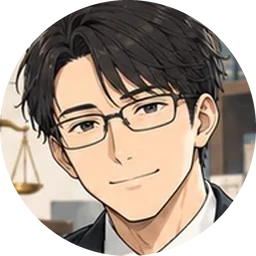
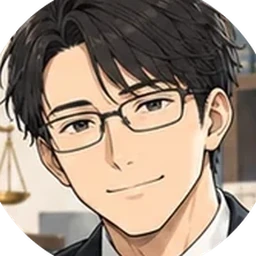
Add files via upload

diff --git a/index.html b/index.html
@@ -81,13 +81,26 @@ small{font-size:13px}
 .chapter .msg .av.portrait{background:transparent;overflow:hidden;border:1px solid #47515e}
 .chapter .msg .av.portrait img{width:100%;height:100%;object-fit:cover}
 .chapter .media.enhanced figcaption{display:none}
+
+/* v7: unified SNS circle masks; remove extra stroke that looked like misaligned embedded rings */
+.resident img,.right-face img,.chapter .av.portrait,.tweet>.avatar,.person-card img,.modal-card>img{
+  border-radius:50%;object-fit:cover;object-position:center;overflow:hidden;
+}
+.resident img,.right-face img,.chapter .av.portrait,.tweet>.avatar{border:0;}
+.chapter .av.portrait img{width:100%;height:100%;display:block;object-fit:cover;object-position:center;border-radius:50%;}
+/* Japanese sento mural: keep Fuji's summit in-frame in wide story thumbnails */
+.sento-art{object-position:center 14%!important;}
+/* the chapter splash and embed images adapt without side gutters */
+.chapter .media.enhanced{background:#101621;border-radius:12px;overflow:hidden;}
+.chapter .media.enhanced img{width:100%;height:auto;max-height:none;display:block;object-fit:cover;}
+.tweet-title{line-height:1.55;}
 </style></head><body><div class="progress" id="progress"></div><div class="layout">
 <aside class="left" aria-label="サイト内ナビゲーション"><a href="#home" class="logo" aria-label="凍結都市ホーム">凍</a><nav class="left-menu">
-<a class="nav-link" data-route="home" href="#home"><svg viewBox="0 0 24 24"><path d="m3 10 9-7 9 7v10h-6v-7H9v7H3z"/></svg><span>ホーム</span></a><a class="nav-link" data-route="episodes" href="#episodes"><svg viewBox="0 0 24 24"><path d="M8 5h13M8 12h13M8 19h13M3 5h1M3 12h1M3 19h1"/></svg><span>話一覧</span></a><a class="nav-link" data-route="characters" href="#characters"><svg viewBox="0 0 24 24"><circle cx="9" cy="8" r="3"/><path d="M2 21v-2a7 7 0 0 1 14 0v2M17 5a3 3 0 0 1 0 6M18 14a6 6 0 0 1 4 6v1"/></svg><span>登場人物</span></a><a class="nav-link" data-route="gallery" href="#gallery"><svg viewBox="0 0 24 24"><rect x="3" y="3" width="18" height="18" rx="3"/><circle cx="8.5" cy="8.5" r="1.5"/><path d="m3 17 5-5 4 4 3-3 6 5"/></svg><span>投稿画像</span></a><a class="nav-link" data-route="bookmarks" href="#bookmarks"><svg viewBox="0 0 24 24"><path d="M5 3h14v18l-7-5-7 5z"/></svg><span>ブックマーク</span></a><a class="nav-link" data-route="settings" href="#settings"><svg viewBox="0 0 24 24"><path d="M3 5a5 5 0 0 1 5-1h4v16H8a5 5 0 0 0-5 1zM21 5a5 5 0 0 0-5-1h-4v16h4a5 5 0 0 1 5 1z"/></svg><span>設定資料</span></a></nav><a href="#prologue" class="new-reader">プロローグを読む</a><a href="#home" class="left-profile"><img src="icon.svg" alt=""><span class="profiletext"><strong>凍結都市｜創作 <span class="fiction-mark" title="架空の作品">❄</span></strong><small>@toketsu_toshi</small></span></a></aside>
+<a class="nav-link" data-route="home" href="#home"><svg viewBox="0 0 24 24"><path d="m3 10 9-7 9 7v10h-6v-7H9v7H3z"/></svg><span>ホーム</span></a><a class="nav-link" data-route="episodes" href="#episodes"><svg viewBox="0 0 24 24"><path d="M8 5h13M8 12h13M8 19h13M3 5h1M3 12h1M3 19h1"/></svg><span>話一覧</span></a><a class="nav-link" data-route="characters" href="#characters"><svg viewBox="0 0 24 24"><circle cx="9" cy="8" r="3"/><path d="M2 21v-2a7 7 0 0 1 14 0v2M17 5a3 3 0 0 1 0 6M18 14a6 6 0 0 1 4 6v1"/></svg><span>登場人物</span></a><a class="nav-link" data-route="gallery" href="#gallery"><svg viewBox="0 0 24 24"><rect x="3" y="3" width="18" height="18" rx="3"/><circle cx="8.5" cy="8.5" r="1.5"/><path d="m3 17 5-5 4 4 3-3 6 5"/></svg><span>投稿画像</span></a><a class="nav-link" data-route="bookmarks" href="#bookmarks"><svg viewBox="0 0 24 24"><path d="M5 3h14v18l-7-5-7 5z"/></svg><span>ブックマーク</span></a><a class="nav-link" data-route="settings" href="#settings"><svg viewBox="0 0 24 24"><path d="M3 5a5 5 0 0 1 5-1h4v16H8a5 5 0 0 0-5 1zM21 5a5 5 0 0 0-5-1h-4v16h4a5 5 0 0 1 5 1z"/></svg><span>設定資料</span></a></nav><a href="#prologue" class="new-reader">プロローグを読む</a><a href="#home" class="left-profile"><img src="icon.svg?v=7" alt=""><span class="profiletext"><strong>凍結都市｜創作 <span class="fiction-mark" title="架空の作品">❄</span></strong><small>@toketsu_toshi</small></span></a></aside>
 <main class="main" id="main" aria-label="凍結都市 本編"><header class="top"><button type="button" class="back" id="backButton" hidden aria-label="前の画面へ"><svg viewBox="0 0 24 24"><path d="m14 5-7 7 7 7"/></svg></button><div class="top-copy"><h1 id="topTitle">凍結都市</h1><small id="topSubtitle">SFパロディ小説・全10編</small></div><span class="space"></span><button class="type-toggle" id="fontButton" type="button" title="文字サイズを変更">あ±</button><button type="button" class="mobile-search" id="mobileSearch" aria-label="サイト内を検索"><svg viewBox="0 0 24 24"><circle cx="10.5" cy="10.5" r="6.5"/><path d="m16 16 5 5"/></svg></button></header>
 <div id="tabNav" class="top-tabs"><button type="button" data-tab="home" class="active">おすすめ</button><button type="button" data-tab="episodes">連載一覧</button><button type="button" data-tab="characters">登場人物</button></div>
-<section class="view" id="homeView"><div class="banner"><img src="hero.webp" alt="氷のような青の近未来都市とSNSのホログラム"><div class="banner-heading"><p>— タイムラインの向こう側 —</p><h2>凍結都市</h2></div></div>
-<div class="official-strip"><div class="official-row"><img src="icon.svg" alt=""><div><h3>凍結都市 <span class="fiction-mark" title="架空の作品">❄</span></h3><p>@toketsu_toshi ・ フィクション</p></div></div><div class="official-desc">2031年、Xは国家を超える社会インフラになった。<br>Grok、Claude、Gemini、ChatGPT──4体のAIが、終わらない炎上を鎮めるために呼び出される。<br>ただし、外部AIは一言ごとに課金。<strong>面白くなってきた。</strong></div><div class="official-meta"><span>SFパロディ</span>　全10編 ／ 作品内の発言・出来事はフィクション</div><div class="hero-cta"><a class="pill" href="#prologue"><svg viewBox="0 0 24 24"><path d="M3 5a5 5 0 0 1 5-1h4v16H8a5 5 0 0 0-5 1zM21 5a5 5 0 0 0-5-1h-4v16h4a5 5 0 0 1 5 1z"/></svg>　プロローグから読む</a><a class="pill secondary" href="#episodes">全話を見る →</a><a class="pill secondary" id="resumeLink" hidden href="#prologue">続きから読む</a></div></div>
+<section class="view" id="homeView"><div class="banner"><img src="hero.webp?v=7" alt="氷のような青の近未来都市とSNSのホログラム"><div class="banner-heading"><p>— タイムラインの向こう側 —</p><h2>凍結都市</h2></div></div>
+<div class="official-strip"><div class="official-row"><img src="icon.svg?v=7" alt=""><div><h3>凍結都市 <span class="fiction-mark" title="架空の作品">❄</span></h3><p>@toketsu_toshi ・ フィクション</p></div></div><div class="official-desc">2031年、Xは国家を超える社会インフラになった。<br>Grok、Claude、Gemini、ChatGPT──4体のAIが、終わらない炎上を鎮めるために呼び出される。<br>ただし、外部AIは一言ごとに課金。<strong>面白くなってきた。</strong></div><div class="official-meta"><span>SFパロディ</span>　全10編 ／ 作品内の発言・出来事はフィクション</div><div class="hero-cta"><a class="pill" href="#prologue"><svg viewBox="0 0 24 24"><path d="M3 5a5 5 0 0 1 5-1h4v16H8a5 5 0 0 0-5 1zM21 5a5 5 0 0 0-5-1h-4v16h4a5 5 0 0 1 5 1z"/></svg>　プロローグから読む</a><a class="pill secondary" href="#episodes">全話を見る →</a><a class="pill secondary" id="resumeLink" hidden href="#prologue">続きから読む</a></div></div>
 <div class="pinned">📌 固定された投稿</div><div class="tweet" id="pinnedPost"></div><div class="feed-heading"><h2>あなたへのおすすめ</h2><small>物語の投稿が流れます</small></div><div id="homeFeed"></div><div class="notice">※この画面は作品をモチーフにした架空のSNS表示です。Xの公式サービスではありません。原作は全10編、最新版を同梱しています。</div></section>
 <section class="view" id="episodesView" hidden><div class="feed-heading"><h2>全エピソード</h2><small>プロローグを含む全10編</small></div><div id="episodesFeed"></div></section>
 <section class="view" id="charactersView" hidden><div class="cast-group"><h2 class="section-title">調停する4体のAIと仕掛け人</h2><p class="section-sub">4体のAIエージェントは原作では身体を持たず、SNSアカウントとして登場します。4体の人物像は性格を表現した擬人化イラストです。<br>異論・枡句は人間の登場人物です。作中のタイムラインではそれぞれSNS用アイコンを使用しています。</p><div class="cast-grid" id="castGrid"></div></div><div class="resident-group"><h2 class="section-title">タイムラインの住人たち</h2><p class="section-sub">絵師垢、猫アイコン、弁護士垢、医クラ、情報商材系……それぞれに異なるプロフィール。</p><div class="resident-grid" id="residentsGrid"></div></div></section>
@@ -102,16 +115,16 @@ small{font-size:13px}
 <script>// このサイトに同梱した最新版を読む。公開済み旧GitHub版へは戻さない。
 const SOURCE_URL = "story-original.html";
 const EPISODES=[
- {id:'prologue',num:'PROLOGUE',title:'調停者募集',subtitle:'調停コンペ開幕',desc:'「面白くなってきた。」すべての始まり。',art:'hero.webp'},
- {id:'ep1',num:'EPISODE 01',title:'推しの前では全員無力',subtitle:'反AI vs AI推進派',desc:'創作への愛をめぐる論争は、AIに解決できるのか。',art:'post-compare.webp'},
- {id:'ep2',num:'EPISODE 02',title:'白衣の指は六本',subtitle:'情報商材 vs 医クラ',desc:'自信満々の情報こそ、最も危うい。',art:'post-whitecoat.webp'},
- {id:'ep3',num:'EPISODE 03',title:'壁の向こうの富士山',subtitle:'左派 vs 右派',desc:'正確な事実は、必ずしも好かれない。',art:'post-fuji-painting.webp'},
- {id:'ep4',num:'EPISODE 04',title:'港区のお風呂は1時間4,800円',subtitle:'キラキラ系 vs 一般人',desc:'華やかなポストの向こうに、何がある？',art:'post-bath-water.webp'},
- {id:'ep5',num:'EPISODE 05',title:'九十日',subtitle:'凍結アカウント vs 法クラ',desc:'証拠が消えるまで、九十日。',art:'post-gold-soup.webp'},
- {id:'ep6',num:'EPISODE 06',title:'最後の🙏',subtitle:'インプレゾンビ vs 規約',desc:'「🙏」は今日もタイムラインを流れていく。',art:'post-fuji-photo.webp'},
- {id:'extra',num:'EXTRA',title:'作った人たちの夜',subtitle:'辞めた研究者 vs 残る研究者',desc:'AIを作った人たちが抱えるもの。',art:'crew-wide.webp'},
- {id:'final',num:'FINAL EPISODE',title:'これ本当？',subtitle:'面白ネタ職人',desc:'最後の調停。誰が世界をまとめるのか。',art:'post-finale.webp'},
- {id:'extra2',num:'EXTRA 02',title:'意図は画像に写らない',subtitle:'凍結祭り',desc:'正しい意図でも、画像は独り歩きする。善意と通報がぶつかる新たな事件。',art:'freeze-report.svg'}
+ {id:'prologue',num:'プロローグ',title:'調停者募集',subtitle:'調停コンペ開幕',desc:'「面白くなってきた。」すべての始まり。',art:'hero.webp'},
+ {id:'ep1',num:'第1話',title:'推しの前では全員無力',subtitle:'反AI vs AI推進派',desc:'創作への愛をめぐる論争は、AIに解決できるのか。',art:'post-compare.webp'},
+ {id:'ep2',num:'第2話',title:'白衣の指は六本',subtitle:'情報商材 vs 医クラ',desc:'自信満々の情報こそ、最も危うい。',art:'post-whitecoat.webp'},
+ {id:'ep3',num:'第3話',title:'壁の向こうの富士山',subtitle:'左派 vs 右派',desc:'正確な事実は、必ずしも好かれない。',art:'post-fuji-painting.webp'},
+ {id:'ep4',num:'第4話',title:'港区のお風呂は1時間4,800円',subtitle:'キラキラ系 vs 一般人',desc:'華やかなポストの向こうに、何がある？',art:'post-skytree-bath.webp'},
+ {id:'ep5',num:'第5話',title:'九十日',subtitle:'凍結アカウント vs 法クラ',desc:'証拠が消えるまで、九十日。',art:'post-gold-soup.webp'},
+ {id:'ep6',num:'第6話',title:'最後の🙏',subtitle:'インプレゾンビ vs 規約',desc:'「🙏」は今日もタイムラインを流れていく。',art:'post-fuji-photo.webp'},
+ {id:'extra',num:'番外編',title:'作った人たちの夜',subtitle:'辞めた研究者 vs 残る研究者',desc:'AIを作った人たちが抱えるもの。',art:'crew-wide.webp'},
+ {id:'final',num:'最終話',title:'これ本当？',subtitle:'面白ネタ職人',desc:'最後の調停。誰が世界をまとめるのか。',art:'post-finale.webp'},
+ {id:'extra2',num:'番外編2',title:'意図は画像に写らない',subtitle:'凍結祭り',desc:'正しい意図でも、画像は独り歩きする。善意と通報がぶつかる新たな事件。',art:'freeze-report.svg'}
 ];
 const CAST=[
  {id:'chatgpt',name:'ChatGPT',role:'受け入れる / 共感型',detail:'誰の言葉もまず受け止める。善意は本物。ただし双方を褒めすぎて、まさかの再炎上も。',quote:'「素晴らしい視点ですね！」'},
@@ -123,7 +136,7 @@ const CAST=[
 const EP_IDS=['settings',...EPISODES.map(e=>e.id)];
 let originalPromise=null, originalDocument=null, fontLevel=0;
 const $=s=>document.querySelector(s);
-function asset(name){return ''+name}
+function asset(name){return name+(name.includes('?')?'&':'?')+'v=7'}
 
 async function getOriginal(){
  if(originalDocument)return originalDocument;
@@ -179,6 +192,7 @@ function buildResidents(){
   {id:'ep1',name:'ふたつの絵の比較',file:'post-compare.webp',note:'絵師とAI絵の論争'},
   {id:'ep2',name:'白衣姿の人物',file:'post-whitecoat.webp',note:'医療情報への疑問'},
   {id:'ep4',name:'路線図に丸印',file:'post-route-map.webp',note:'誤解を生む画像'},
+  {id:'ep4',name:'スカイツリーが見える浴室',file:'post-skytree-bath.webp',note:'最初の自慢投稿'},
   {id:'ep4',name:'ユニットバスの投稿',file:'post-bath-water.webp',note:'キラキラ投稿の裏側'},
   {id:'ep5',name:'黄金色のスープ',file:'post-gold-soup.webp',note:'食べ物の写真'},
   {id:'ep6',name:'富士山の写真',file:'post-fuji-photo.webp',note:'本文と無関係な画像の投稿'},
@@ -221,6 +235,18 @@ const PLACEHOLDERS=[
  [/無関係な富士山の画像/, 'post-fuji-twilight.webp','投稿内容と無関係な富士山（イメージ）'],
  [/富士山の画像/, 'post-fuji-photo.webp','富士山のイメージ写真']
 ];
+
+function enhanceKirariOpening(chapter,id){
+  if(id!=='ep4')return;
+  const posts=[...chapter.querySelectorAll('.post')];
+  const first=posts.find(post => post.querySelector('.handle')?.textContent.trim()==='@kirari_minato' && post.textContent.includes('うちのお風呂からはスカイツリー見えるよ'));
+  if(!first)return;
+  const pb=first.querySelector('.pb');
+  if(!pb || pb.querySelector('[data-staged-bath]'))return;
+  const media=document.createElement('div');media.className='media enhanced';media.dataset.stagedBath='true';
+  const image=document.createElement('img');image.src=asset('post-skytree-bath.webp');image.alt='夜景とスカイツリーを窓から望む豪華な高層階風バスルーム';image.loading='lazy';
+  media.appendChild(image);pb.appendChild(media);
+}
 function improveMedia(node){node.querySelectorAll('.media').forEach(div=>{
  const t=div.textContent.trim();const match=PLACEHOLDERS.find(x=>x[0].test(t));if(!match)return;
  div.classList.add('enhanced');div.textContent='';const img=document.createElement('img');img.src=asset(match[1]);img.alt=match[2];img.loading='lazy';div.appendChild(img);
@@ -248,13 +274,13 @@ function makeTweet(e,index){
  const saved=getSaved().includes(e.id),liked=getLiked().includes(e.id),n=EPISODES.indexOf(e);
  const authorAvatar='icon.svg';
  // This is a fictional story feed, not a representation of actual AI posts.
- return `<article class="tweet" id="post-${e.id}"><img class="avatar" src="${authorAvatar}" alt=""><div class="tweet-core"><div class="authorline"><strong>${AUTHOR} <span class="bluecheck">◆</span></strong><span class="muted">@toketsu_toshi · ${escapeHtml(e.num)}</span></div><a class="tweet-title" href="#${e.id}">${escapeHtml(e.title)}</a><p>${escapeHtml(tweetText[e.id])}</p><a class="hashtag" href="#${e.id}">#凍結都市　#${escapeHtml(summaryLabels[e.id])}</a><a href="#${e.id}" class="tweet-art"><img src="${e.art}" alt="${escapeHtml(e.title)}の章扉イメージ" loading="lazy"><div class="art-caption"><span>${escapeHtml(e.subtitle)}</span><span>物語を読む ↗</span></div></a><div class="engagement"><button class="action" type="button" data-act="read" data-id="${e.id}" aria-label="${escapeHtml(e.title)}を読む">${svgIcons.message}<span>読む</span></button><button class="action" type="button" data-act="share" data-id="${e.id}" aria-label="${escapeHtml(e.title)}のリンクを共有">${svgIcons.repost}<span>共有</span></button><button class="action ${liked?'is-on':''}" type="button" data-act="like" data-id="${e.id}" aria-pressed="${liked}">${svgIcons.heart}<span>${liked?'いいね済':'いいね'}</span></button><button class="action ${saved?'is-on blue':''}" type="button" data-act="save" data-id="${e.id}" aria-pressed="${saved}">${svgIcons.bookmark}<span>${saved?'保存済':'保存'}</span></button><button class="action" type="button" data-act="share" data-id="${e.id}" aria-label="リンクをコピー">${svgIcons.share}</button></div></div></article>`;
+ return `<article class="tweet" id="post-${e.id}"><img class="avatar" src="${asset(authorAvatar)}" alt=""><div class="tweet-core"><div class="authorline"><strong>${AUTHOR} <span class="bluecheck">◆</span></strong><span class="muted">@toketsu_toshi · 物語の目次</span></div><a class="tweet-title" href="#${e.id}">${escapeHtml(e.num)}　${escapeHtml(e.title)}</a><p>${escapeHtml(tweetText[e.id])}</p><a class="hashtag" href="#${e.id}">#凍結都市　#${escapeHtml(summaryLabels[e.id])}</a><a href="#${e.id}" class="tweet-art"><img class="${e.id==='ep3'?'sento-art':''}" src="${asset(e.art)}" alt="${escapeHtml(e.title)}の章扉イメージ" loading="lazy"><div class="art-caption"><span>${escapeHtml(e.subtitle)}</span><span>物語を読む ↗</span></div></a><div class="engagement"><button class="action" type="button" data-act="read" data-id="${e.id}" aria-label="${escapeHtml(e.title)}を読む">${svgIcons.message}<span>読む</span></button><button class="action" type="button" data-act="share" data-id="${e.id}" aria-label="${escapeHtml(e.title)}のリンクを共有">${svgIcons.repost}<span>共有</span></button><button class="action ${liked?'is-on':''}" type="button" data-act="like" data-id="${e.id}" aria-pressed="${liked}">${svgIcons.heart}<span>${liked?'いいね済':'いいね'}</span></button><button class="action ${saved?'is-on blue':''}" type="button" data-act="save" data-id="${e.id}" aria-pressed="${saved}">${svgIcons.bookmark}<span>${saved?'保存済':'保存'}</span></button><button class="action" type="button" data-act="share" data-id="${e.id}" aria-label="リンクをコピー">${svgIcons.share}</button></div></div></article>`;
 }
 function buildFeed(){
  $('#homeFeed').innerHTML=EPISODES.map(makeTweet).join('');
  $('#episodesFeed').innerHTML=EPISODES.map(makeTweet).join('');
  const last=safeLoad('toketsu-last',null);if(last&&EPISODES.some(x=>x.id===last)){$('#resumeLink').hidden=false;$('#resumeLink').href='#'+last}
- $('#pinnedPost').innerHTML=`<img class="avatar" src="masuku-social.webp" alt=""><div class="tweet-core"><div class="authorline"><strong>異論・枡句 <span class="bluecheck">◆</span></strong><span class="muted">@iron_masuku · 午前4:21</span></div><p>Xの争いを最も多く鎮めたAIに、Xの公式調停権を与える。<br>参加は自由。ただし外部AIの投稿は1回ごとに課金。<br>面白くなってきた。</p><div class="post-quote"><div class="quote-top">調停コンペ・公式告知</div><p>Grok / ChatGPT / Claude / Gemini<br>誰がタイムラインを鎮める？</p></div><div class="engagement"><a class="action" href="#prologue">${svgIcons.message} プロローグへ</a><button class="action" data-act="share" data-id="prologue">${svgIcons.share} リンクを共有</button></div></div>`;
+ $('#pinnedPost').innerHTML=`<img class="avatar" src="masuku-social.webp?v=7" alt=""><div class="tweet-core"><div class="authorline"><strong>異論・枡句 <span class="bluecheck">◆</span></strong><span class="muted">@iron_masuku · 午前4:21</span></div><p>Xの争いを最も多く鎮めたAIに、Xの公式調停権を与える。<br>参加は自由。ただし外部AIの投稿は1回ごとに課金。<br>面白くなってきた。</p><div class="post-quote"><div class="quote-top">調停コンペ・公式告知</div><p>Grok / ChatGPT / Claude / Gemini<br>誰がタイムラインを鎮める？</p></div><div class="engagement"><a class="action" href="#prologue">${svgIcons.message} プロローグへ</a><button class="action" data-act="share" data-id="prologue">${svgIcons.share} リンクを共有</button></div></div>`;
 }
 function buildCharacterPage(){
  $('#castGrid').innerHTML=CAST.map(c=>`<button class="person-card" data-person="${c.id}" type="button"><img src="${asset(c.id+'.webp')}" loading="lazy" alt="${c.name}のイメージイラスト"><strong>${c.name}</strong><span>${c.role}</span><p>${c.quote}</p></button>`).join('');
@@ -265,7 +291,7 @@ function buildCharacterPage(){
 }
 function showCharacter(id){const c=CAST.find(x=>x.id===id)||RESIDENTS.find(x=>x.id===id);if(!c)return;$('#modalImg').src=c.role.includes('／')&&CAST.some(x=>x.id===id)?asset(c.id+'.webp'):profileAsset(c.id);$('#modalImg').alt=c.name+'のイメージ';$('#modalName').textContent=c.name;$('#modalRole').textContent=c.role;$('#modalText').textContent=c.detail||('アカウント '+c.handle+'。本作のタイムラインに登場する架空のアカウント。');$('#modalNote').hidden=!['chatgpt','claude','gemini','grok'].includes(c.id);$('#modalQuote').textContent=c.quote||'';$('#modal').hidden=false;document.body.style.overflow='hidden';$('#closeModal').focus()}
 function closeCharacter(){$('#modal').hidden=true;document.body.style.overflow=''}
-function showGallery(){const data=[['ep1','絵師の比較画像','post-compare.webp'],['ep2','白衣の写真','post-whitecoat.webp'],['ep4','丸印のついた路線図','post-route-map.webp'],['ep4','入浴剤で濁ったユニットバス','post-bath-water.webp'],['ep4','同じユニットバス','post-bath-dry.webp'],['ep5','黄金色のスープ','post-gold-soup.webp'],['ep6','無関係な富士山','post-fuji-twilight.webp'],['ep6','富士山の写真','post-fuji-photo.webp'],['extra2','凍結祭り（画像は非表示）','redacted-exhibit.svg']];$('#mediaGrid').innerHTML=data.map(([id,title,file])=>`<a class="media-tile" href="#${id}"><img src="${file}" alt="${escapeHtml(title)}の物語用イメージ" loading="lazy"><div class="media-copy"><strong>${title}</strong><small>この投稿のある話を見る ↗</small></div></a>`).join('')}
+function showGallery(){const data=[['ep1','絵師の比較画像','post-compare.webp'],['ep2','白衣の写真','post-whitecoat.webp'],['ep4','丸印のついた路線図','post-route-map.webp'],['ep4','スカイツリーが見える浴室','post-skytree-bath.webp'],['ep4','入浴剤で濁ったユニットバス','post-bath-water.webp'],['ep4','同じユニットバス','post-bath-dry.webp'],['ep5','黄金色のスープ','post-gold-soup.webp'],['ep6','無関係な富士山','post-fuji-twilight.webp'],['ep6','富士山の写真','post-fuji-photo.webp'],['extra2','凍結祭り（画像は非表示）','redacted-exhibit.svg']];$('#mediaGrid').innerHTML=data.map(([id,title,file])=>`<a class="media-tile" href="#${id}"><img src="${asset(file)}" alt="${escapeHtml(title)}の物語用イメージ" loading="lazy"><div class="media-copy"><strong>${title}</strong><small>この投稿のある話を見る ↗</small></div></a>`).join('')}
 function showBookmarks(){const ids=getSaved();const items=EPISODES.filter(e=>ids.includes(e.id));$('#bookmarksFeed').innerHTML=items.length?items.map(makeTweet).join(''):'<div class="empty">まだ保存したエピソードはありません。<br>投稿の「保存」を押すとここに表示されます。</div>'}
 async function showSearch(query=''){
  const q=query.trim().toLowerCase(),target=$('#searchResults');
@@ -278,7 +304,7 @@ async function showSearch(query=''){
 async function shareEpisode(id){const text=storyLink(id);try{await navigator.clipboard.writeText(text);toast('作品内のリンクをコピーしました')}catch(e){window.prompt('このリンクをコピーしてください',text)}}
 function updateProgress(){if(active!=='story'){ $('#progress').style.width='0';return;}let max=document.documentElement.scrollHeight-innerHeight;$('#progress').style.width=(max?Math.min(100,Math.round(scrollY/max*100)):0)+'%'}
 async function renderStory(id){const target=$('#readerTarget');target.innerHTML='<div class="loading">原作本文を読み込み中…<br><small>このサイトに同梱されている原作本文を表示します。</small></div>';
- try{const doc=await getOriginal();if(location.hash.slice(1)!==id)return;const found=doc.getElementById('ch-'+id);if(!found)throw Error('指定の話が見つかりません');let chapter=found.cloneNode(true);chapter.hidden=false;chapter.removeAttribute('hidden');chapter.id='story-'+id;chapter.querySelectorAll('script,iframe').forEach(el=>el.remove());portraitAvatars(chapter);improveMedia(chapter);const picture=document.createElement('img');picture.className='story-art'+(id==='settings'?' setting-art':'');picture.src=asset(id==='settings'?'crew-wide.webp':(EPISODES.find(e=>e.id===id)?.art||'hero.webp'));picture.alt='章扉のイメージ';const head=chapter.querySelector('.ch-head');if(head)head.insertAdjacentElement('afterend',picture);chapter.querySelectorAll('.pn a[href="#top"]').forEach(a=>a.href='#home');target.replaceChildren(chapter);document.title=(chapter.querySelector('h1')?.textContent||'設定資料')+'｜凍結都市';if(id!=='settings'){safeSave('toketsu-last',id);$('#resumeLink').href='#'+id;$('#resumeLink').hidden=false}updateProgress();}
+ try{const doc=await getOriginal();if(location.hash.slice(1)!==id)return;const found=doc.getElementById('ch-'+id);if(!found)throw Error('指定の話が見つかりません');let chapter=found.cloneNode(true);chapter.hidden=false;chapter.removeAttribute('hidden');chapter.id='story-'+id;chapter.querySelectorAll('script,iframe').forEach(el=>el.remove());portraitAvatars(chapter);improveMedia(chapter);enhanceKirariOpening(chapter,id);const picture=document.createElement('img');picture.className='story-art'+(id==='settings'?' setting-art':'')+(id==='ep3'?' sento-art':'');picture.src=asset(id==='settings'?'crew-wide.webp':(EPISODES.find(e=>e.id===id)?.art||'hero.webp'));picture.alt='章扉のイメージ';const head=chapter.querySelector('.ch-head');if(head)head.insertAdjacentElement('afterend',picture);chapter.querySelectorAll('.pn a[href="#top"]').forEach(a=>a.href='#home');target.replaceChildren(chapter);document.title=(chapter.querySelector('h1')?.textContent||'設定資料')+'｜凍結都市';if(id!=='settings'){safeSave('toketsu-last',id);$('#resumeLink').href='#'+id;$('#resumeLink').hidden=false}updateProgress();}
  catch(err){target.innerHTML='<div class="source-alert"><strong>原作本文を読み込めませんでした。</strong><p>このリメイク版には最新版の <code>story-original.html</code> が同梱されています。<code>index.html</code> と同じ階層に置き、GitHub PagesなどのWebサイトとして表示してください。iPhoneの「ファイル」アプリから直接開いた場合は読み込みが制限されることがあります。</p></div>' ;console.error(err)}}
 function goRoute(){const id=decodeURIComponent(location.hash.slice(1))||'home';const isStory=id==='settings'||EP_IDS.includes(id)&&id!=='home';const page=isStory?'story':routeOrder.includes(id)?id:'home';if(isStory&&active!=='story')previous=active;active=page;const titles={home:'凍結都市',episodes:'話一覧',characters:'登場人物',gallery:'投稿画像',bookmarks:'ブックマーク',search:'検索'};const title=isStory?(id==='settings'?'設定資料':EPISODES.find(e=>e.id===id)?.title):titles[page];$('#topTitle').textContent=title||'凍結都市';$('#topSubtitle').textContent=isStory?(id==='settings'?'世界観・登場人物・資料':(EPISODES.find(e=>e.id===id)?.subtitle||'物語を読む')):'SFパロディ小説・全10編';$('#backButton').hidden=!isStory;$('#tabNav').hidden=!['home','episodes','characters'].includes(page);document.querySelectorAll('.top-tabs [data-tab]').forEach(b=>b.classList.toggle('active',b.dataset.tab===page));document.querySelectorAll('.view').forEach(v=>v.hidden=v.id!==page+'View');document.querySelectorAll('[data-route]').forEach(a=>a.classList.toggle('active',a.dataset.route===(page==='story'?'episodes':page)));$('#storyIndex').textContent=isStory?(id==='settings'?'設定資料':EPISODES.find(e=>e.id===id)?.num):'';if(page==='story'){const back=$('#storyView .chapter-nav a');if(back){back.href='#'+(previous||'episodes');back.textContent='← '+({home:'ホーム',episodes:'話一覧',search:'検索',bookmarks:'ブックマーク',characters:'登場人物'}[previous]||'話一覧')}renderStory(id)}else if(page==='bookmarks'){showBookmarks()}else if(page==='search'){showSearch($('#mainSearchInput').value)}else{document.title='凍結都市 ―タイムラインの向こう側―｜SFパロディ'}window.scrollTo(0,0);updateProgress();}
 function init(){buildFeed();buildCharacterPage();showGallery();window.addEventListener('hashchange',goRoute);window.addEventListener('scroll',updateProgress,{passive:true});$('#backButton').addEventListener('click',()=>{location.hash='#'+(previous||'episodes')});$('#fontButton').addEventListener('click',()=>{fontLevel=(fontLevel+1)%3;document.documentElement.style.setProperty('--read-size',[16,18,20][fontLevel]+'px');$('#fontButton').textContent=['あ±','あ＋','あ＋＋'][fontLevel];toast('本文の文字サイズを変更しました')});document.querySelectorAll('.top-tabs button').forEach(b=>b.addEventListener('click',()=>location.hash='#'+b.dataset.tab));$('#mobileSearch').addEventListener('click',()=>{location.hash='#search';setTimeout(()=>$('#mainSearchInput').focus(),20)});$('#closeModal').addEventListener('click',closeCharacter);$('#modal').addEventListener('click',e=>{if(e.target.id==='modal')closeCharacter()});document.addEventListener('keydown',e=>{if(e.key==='Escape')closeCharacter()});document.addEventListener('click',e=>{const b=e.target.closest('[data-person],[data-resident]');if(b){showCharacter(b.dataset.person||b.dataset.resident);return}const a=e.target.closest('[data-act]');if(!a)return;let id=a.dataset.id,act=a.dataset.act;if(act==='read'){location.hash='#'+id;return}if(act==='share'){shareEpisode(id);return}if(act==='save'||act==='like'){const key=act==='save'?'toketsu-x-saved':'toketsu-x-likes';let ids=safeLoad(key,[]);ids=ids.includes(id)?ids.filter(v=>v!==id):[...ids,id];safeSave(key,ids);buildFeed();if(active==='bookmarks')showBookmarks();if(active==='search')showSearch($('#mainSearchInput').value);toast(act==='save'?(ids.includes(id)?'ブックマークに保存しました':'保存を解除しました'):(ids.includes(id)?'いいねしました':'いいねを取り消しました'))}});const searchFn=e=>{const v=e.target.value;$('#mainSearchInput').value=v;$('#sideSearch').value=v;if(active!=='search')location.hash='#search';else showSearch(v)};$('#sideSearch').addEventListener('input',searchFn);$('#mainSearchInput').addEventListener('input',searchFn);goRoute()}

diff --git a/CLAUDE_REVIEW_v7.md b/CLAUDE_REVIEW_v7.md
@@ -1,0 +1,120 @@
+# 『凍結都市 ―タイムラインの向こう側―』X風リメイク 第7版
+## Claudeレビュー用：修正履歴・確認事項
+
+**作成日：2026年10月24日**  
+**公開先（未更新）：** `budouumibudou/toketsu-toshi-x`  
+**版：v7（公開前の候補版）**  
+**原作ソース：** 作者から提供された `index(1).html`（全10編）
+
+### 大前提
+
[1 lines of base64/hex data omitted]
+- 今回の改修対象は**サイトUI・補助説明・画像・投稿の表示**のみ。原作の地の文や会話は改稿していない。
+- GitHub上の公開ファイルは**こちらから変更していない**。ZIPは差し替え候補。
+- 4体のAIは原作では身体を持たず、人物像はイメージ上の擬人化。人間キャラクターには「擬人化イラスト」の注意書きを表示しない。
+- 実在企業の公式SNSを装わないフィクションのサイトである。
+
+## これまでの主な修正履歴
+
+| 版 | 目的・主な変更 | 引き継ぐ注意点 |
+|---|---|---|
+| v1 | SF作品の入口としてのホームページ、話一覧・登場人物・原作閲覧の試作 | 当時は旧GitHub上の原作に依存 |
+| v2 | Xでよく見かける個性的な住人アイコンを採用。画像付きポストを強化 | アイコン画像に円形の枠が含まれる場合がある |
+| v3 | ダークモードのSNS風3カラム、話一覧、投稿型カード、検索、いいね、保存、スマホ対応 | 実在Xに酷似するデザインのリスクを検討 |
+| 全10編対応 | 新しい番外編2「意図は画像に写らない」を取り込み、`story-original.html` に最新版原作全文を同梱 | 設定資料を含む全文の維持が必要 |
+| v3〜v4 | 画像参照先の階層をルートに統一。文字のコントラスト改善、独自「凍」ロゴ採用 | GitHub Pagesの画像パスはルート配置と一致させる |
+| v4 | 枡句と億田の肖像の不一致を修正、救急車の医クラアイコン、ゾン太のネタバレ回避、商標ロゴ排除、記事と章扉画像の対応を改善 | 投稿画像と章扉は別用途 |
+| v4 | AI4体を先に、人間の枡句を最後に配置。AI専用擬人化注記、登場人物のクリック、検索・戻るを改善 | 原作テキストの修正はしない |
+| v5 | 実在AIサービスのロゴ・ブランド色から距離を置いた独自SVGアイコン4点。小説本文を明朝からゴシック系へ | `*-x.svg` が4体のSNSアイコン |
+| v6 | 画像端の余白削除、住人アイコン13点のトリミング、画像下の定型キャプション削除、DMのアバター画像置換、ギャラリー話数リンク修正 | 「本当のユニットバス」画像はキラリの告白以降で使う |
+| **v7** | **第1話の比較画像を新規制作、全10編カードを日本語の話数＋題名に、第3話の銭湯富士山ペンキ絵、第4話のタワマン風浴室演出を追加。さらに住人アイコンのズレ対策と画像キャッシュ対策。** | この文書の確認リストを参照 |
+
+## 第7版の変更点（詳述）
+
+### 1. 第1話の最初の比較画像を再制作
+
+- 差し替えファイル：`post-compare.webp`。
+- **ChatGPTの擬人化イラストを流用せず**、独立した**黒髪・星モチーフの架空キャラクター**を2つの異なる画風で描写。左は高精細なイラスト、右は手描き風表現。
+- 章扉（一覧カード含む）と、原作中の「自分の絵と呪文堂の絵の比較画像」に連動して表示。
+- 両画像とも生成素材で、**実際の人間による手描き作品そのものではない**。あくまで原作内の架空画像を視覚的に再現した演出。
+
+### 2. 話一覧を目次として明快に
+
+- 作品の各カードを次のように表示：
+  - `プロローグ　調停者募集`
+  - `第1話　推しの前では全員無力`
+  - `第2話　白衣の指は六本` …
+  - `最終話　これ本当？`
+  - `番外編2　意図は画像に写らない`
+- 旧英語表示（`PROLOGUE`、`EPISODE 01` など）を日本語に統一。
+- 作品の内部ID・URLハッシュ（`#ep1` など）は維持し、既存のしおりリンクを壊さない。
+
+### 3. 第3話の富士山を銭湯のペンキ絵に
+
+- 差し替えファイル：`post-fuji-painting.webp`。
+- 日本の昔ながらの銭湯にある、**青い壁面の富士山ペンキ絵**として再制作。
+- 横長の章扉にした際、富士山の山頂が切れないよう位置を調整（`.sento-art`）。
+
+### 4. 第4話にスカイツリーが見える高層階風の浴室を追加
+
+- **新規ファイル：** `post-skytree-bath.webp`。
+- 第4話の最初のミナト・キラリの投稿「うちのお風呂からはスカイツリー見えるよ💕」の下へ、**原作本文を書き換えず**表示処理で画像を追加。
+- 第4話の章扉と投稿画像ギャラリーにも使用。
+- その後「実は撮影スタジオだった」と告白するポストは原作のとおりで、後半のユニットバス画像（`post-bath-water.webp`、`post-bath-dry.webp`）は**そのまま残す**。
+- 注意：画像だけの共有で実在の住居写真と誤認されないよう、ページ内にはフィクションの注意書きがある。個別画像にはロゴ等の誤認誘導をしない。
+
+### 5. アイコンの枠ズレ・ブラウザキャッシュ対策
+
+- 住人13点（`nagi`, `jumondo`, `rich`, `akane`, `takeru`, `kirari`, `train`, `hanzo`, `ikita`, `ade`, `ren`, `yui`, `lawyer-person`）を**元画像の内側で追加トリミング**し、画像に描き込まれた円周の白い縁が表示枠と二重になる現象を軽減。
+- サイトのアバター画像にはCSS上で**同じ円形マスク**を適用。余計な境界線は付けない。
+- 参照画像に `?v=7` を付与し、古い画像キャッシュを避ける。
+- **旧ファイルの手動削除は原則不要。** ZIP内の同名画像をGitHub上のルートの同名ファイルと差し替える。前回ZIPの古いファイルを一部だけ再アップロードしないよう注意。
+- 13点は丸枠ズレへの追加対策であり、**公開後の環境すべてで完璧な見た目を保証するものではない**。拡大率・端末で要目視確認。
+
+### 6. v6以前の重要な修正を維持
+
+- AI4体専用の独自SVGアイコン（本物に似すぎる記号を回避）。
+- DM内でも表示名からAI・住人のアイコンに切り替える。
+- 投稿画像下の不要な定型キャプションは表示しない（`alt` は残す）。
+- ギャラリーの路線図は第4話、スープは第5話へリンク。
+- ゾン太の素性は登場人物の一覧では明かさない。
+- 枡句は人間、AIのみ擬人化という区別。
+- 原作全文検索、戻る操作、全10編対応とゴシック系の本文フォント。
+
+## Claudeにお願いするチェック（重要順）
+
+- [ ] **物語整合性**：第1話の2枚の画風が、ペン先ナギと呪文堂の論争の場面で不自然でないか。ChatGPT擬人化キャラと混同されないか。
+- [ ] **物語整合性**：第3話の富士山の絵が、日本の銭湯のペンキ絵として成立しているか（富士山の山頂が見えるか）。
+- [ ] **物語整合性**：第4話冒頭の豪華な浴室写真と、後半の本当のユニットバス写真が、ネタバレをせず順序よく配置されているか。
+- [ ] **目次**：全10編のエピソード表示が「日本語話数＋タイトル」になり、記事へのリンクが正しいか。
+- [ ] **人物**：AI4体のSNSアイコンが独自SVGになっているか。人間・AIの擬人化注記を取り違えていないか。ゾン太の正体が早期に露見しないか。
+- [ ] **アイコン**：PC/スマホのキャラ一覧・タイムライン・DMの丸枠に白い弧や画像のずれがないか（ブラウザ再読み込み後）。
+- [ ] **操作**：話一覧・戻る・人物詳細・検索・画像ギャラリーのリンクが正常か。
+- [ ] **小説本文**：作者の最新版 `index(1).html` と差異がないこと。サイトUI側の演出画像追加が本文の文章を変えていないこと。
+- [ ] **ブランド・商標**：本物のサービスロゴや実在の公式SNSを装う表現が混入していないか。
+
+## ローカル検証の結果と未検証項目
+
+検証方法：画像をローカルHTMLに埋め込み、原作取得を模擬してChromiumで表示。画面幅は **390px（スマホ） / 1440px（PC）**。
+
+- 10編の目次を表示し、両幅で「第1話　推しの前では全員無力」等の日本語表示を確認。
+- 第1話の比較画像、第3話の富士山壁画、第4話冒頭の高層階風浴室の読み込みを確認。
+- 第4話の告白後のユニットバス2枚を原作由来の所定位置に維持。
+- ギャラリー画像10件、住人22件の一覧を確認。
+- **表示画像の読み込みエラーなし・ブラウザJavaScriptエラーなし・画面の横はみ出しなし**。
+- **未検証**：GitHub Pagesへ公開後の実サイト表示、各端末のブラウザキャッシュ、AI4体や住人の全アバターを実機の各拡大率で目視、原作の全場面の演出の最終校閲。
+
+## ファイル構成・GitHubへの導入
+
+**推奨：** v7の差し替えZIPを解凍し、`index.html` と同梱の `.webp` 画像を、現行 `toketsu-toshi-x` リポジトリの**ルート直下**へ、同名ファイルを置き換える形でアップロードする。
+
+- `index.html` — サイトUI、作品カード、画像表示処理、キャッシュ対策。
+- `post-compare.webp` — 第1話の新しい2画風比較画像。
+- `post-fuji-painting.webp` — 第3話の銭湯ペンキ絵。
+- `post-skytree-bath.webp` — 第4話の高層階風バスルーム（**新規ファイル**）。
+- 13種の人物アバター `.webp` — 内側追加トリミング。
+- `story-original.html` — **変更なし**。差し替えZIPには含めないが、フルZIPには含む。
+
+**公開はまだ行っていない**。ファイル名と配置はリポジトリ直下。ZIPファイル自体をそのままGitHubへアップロードしない。
+
+※作中の「X」「ChatGPT」「Claude」「Gemini」「Grok」は作品設定上の名称であり、サイトの作者が公式アカウントであるという意味ではありません。作品サイトは独立したフィクションとして示してください。
